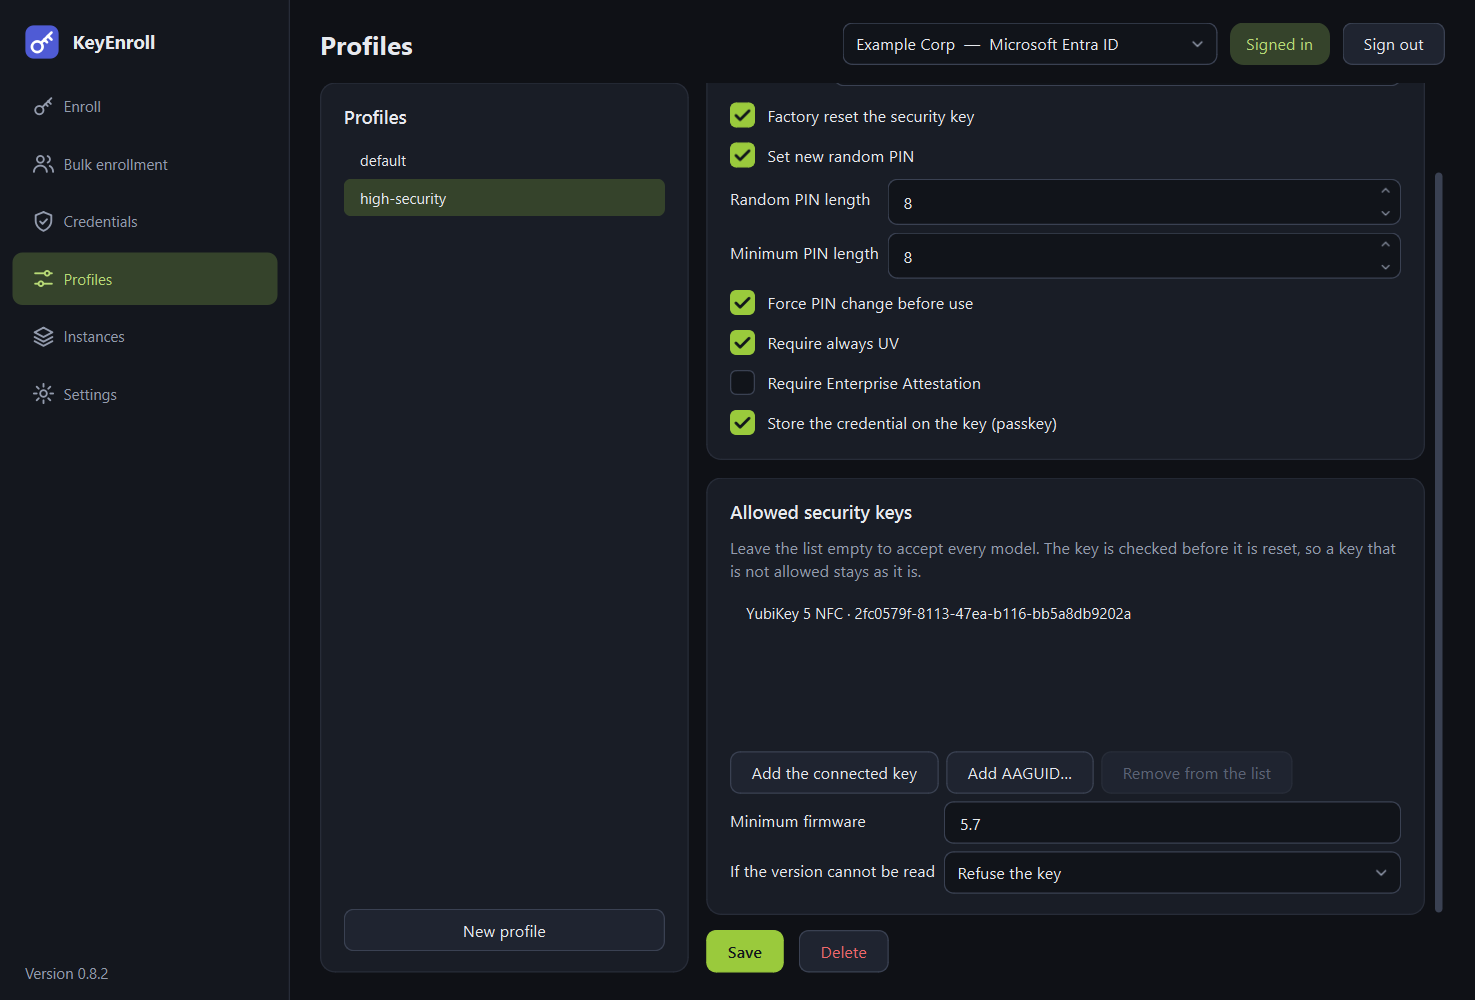
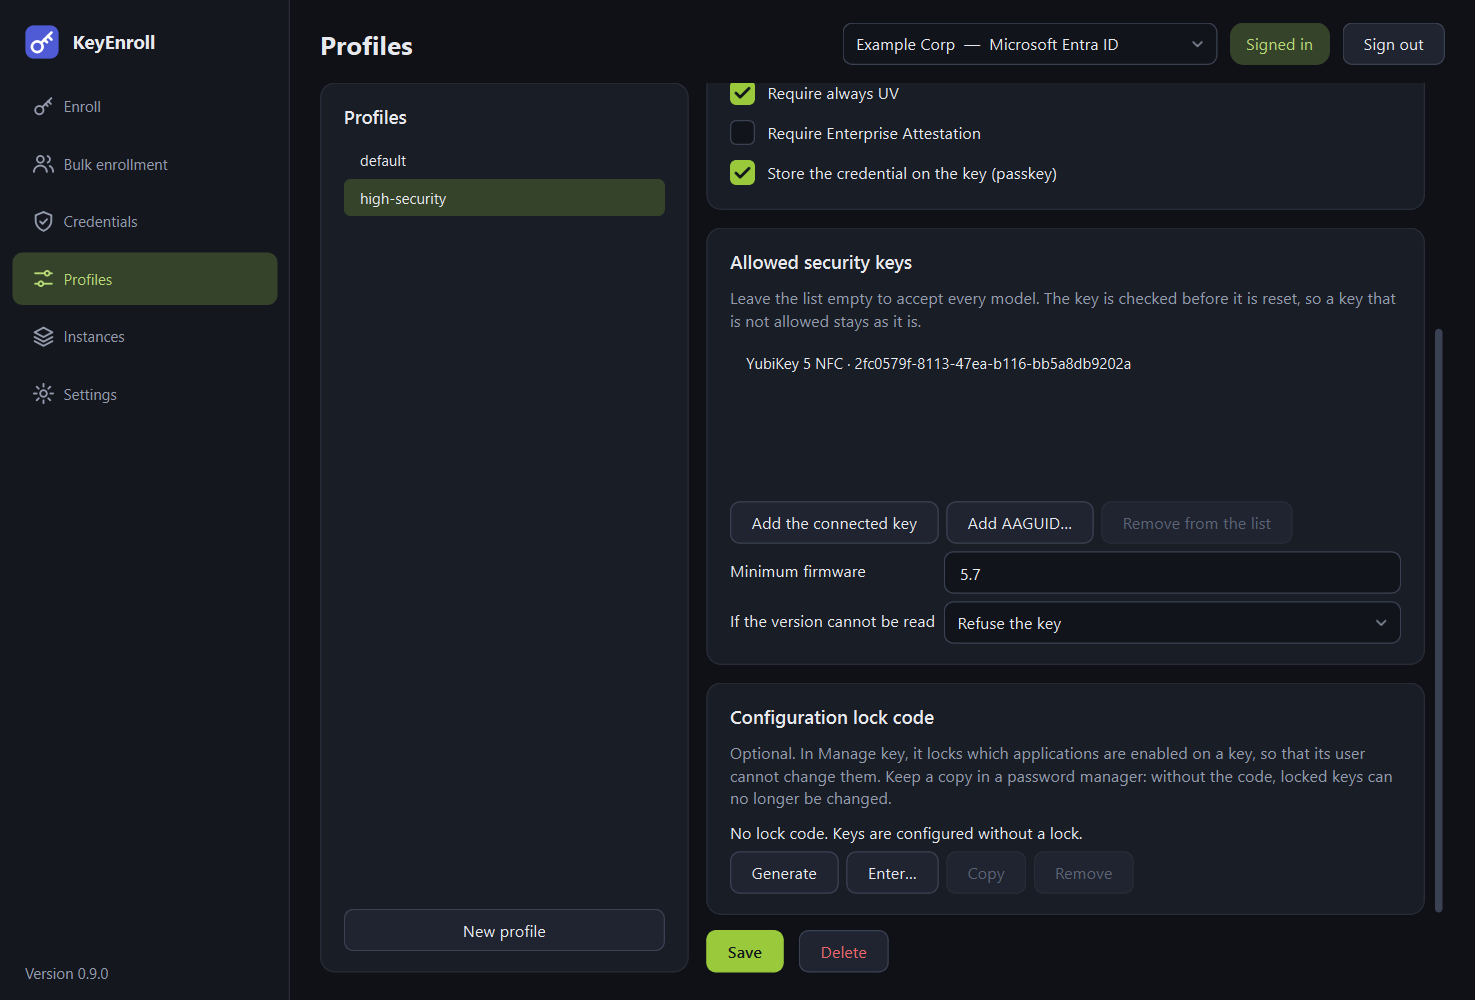
Release 0.9.0

diff --git a/src/keyenroll/__init__.py b/src/keyenroll/__init__.py
@@ -1,4 +1,4 @@
-__version__ = "0.8.2"
+__version__ = "0.9.0"
 
 APP_NAME = "KeyEnroll"
 PROJECT_URL = "https://github.com/inowakowski/KeyEnroll"
